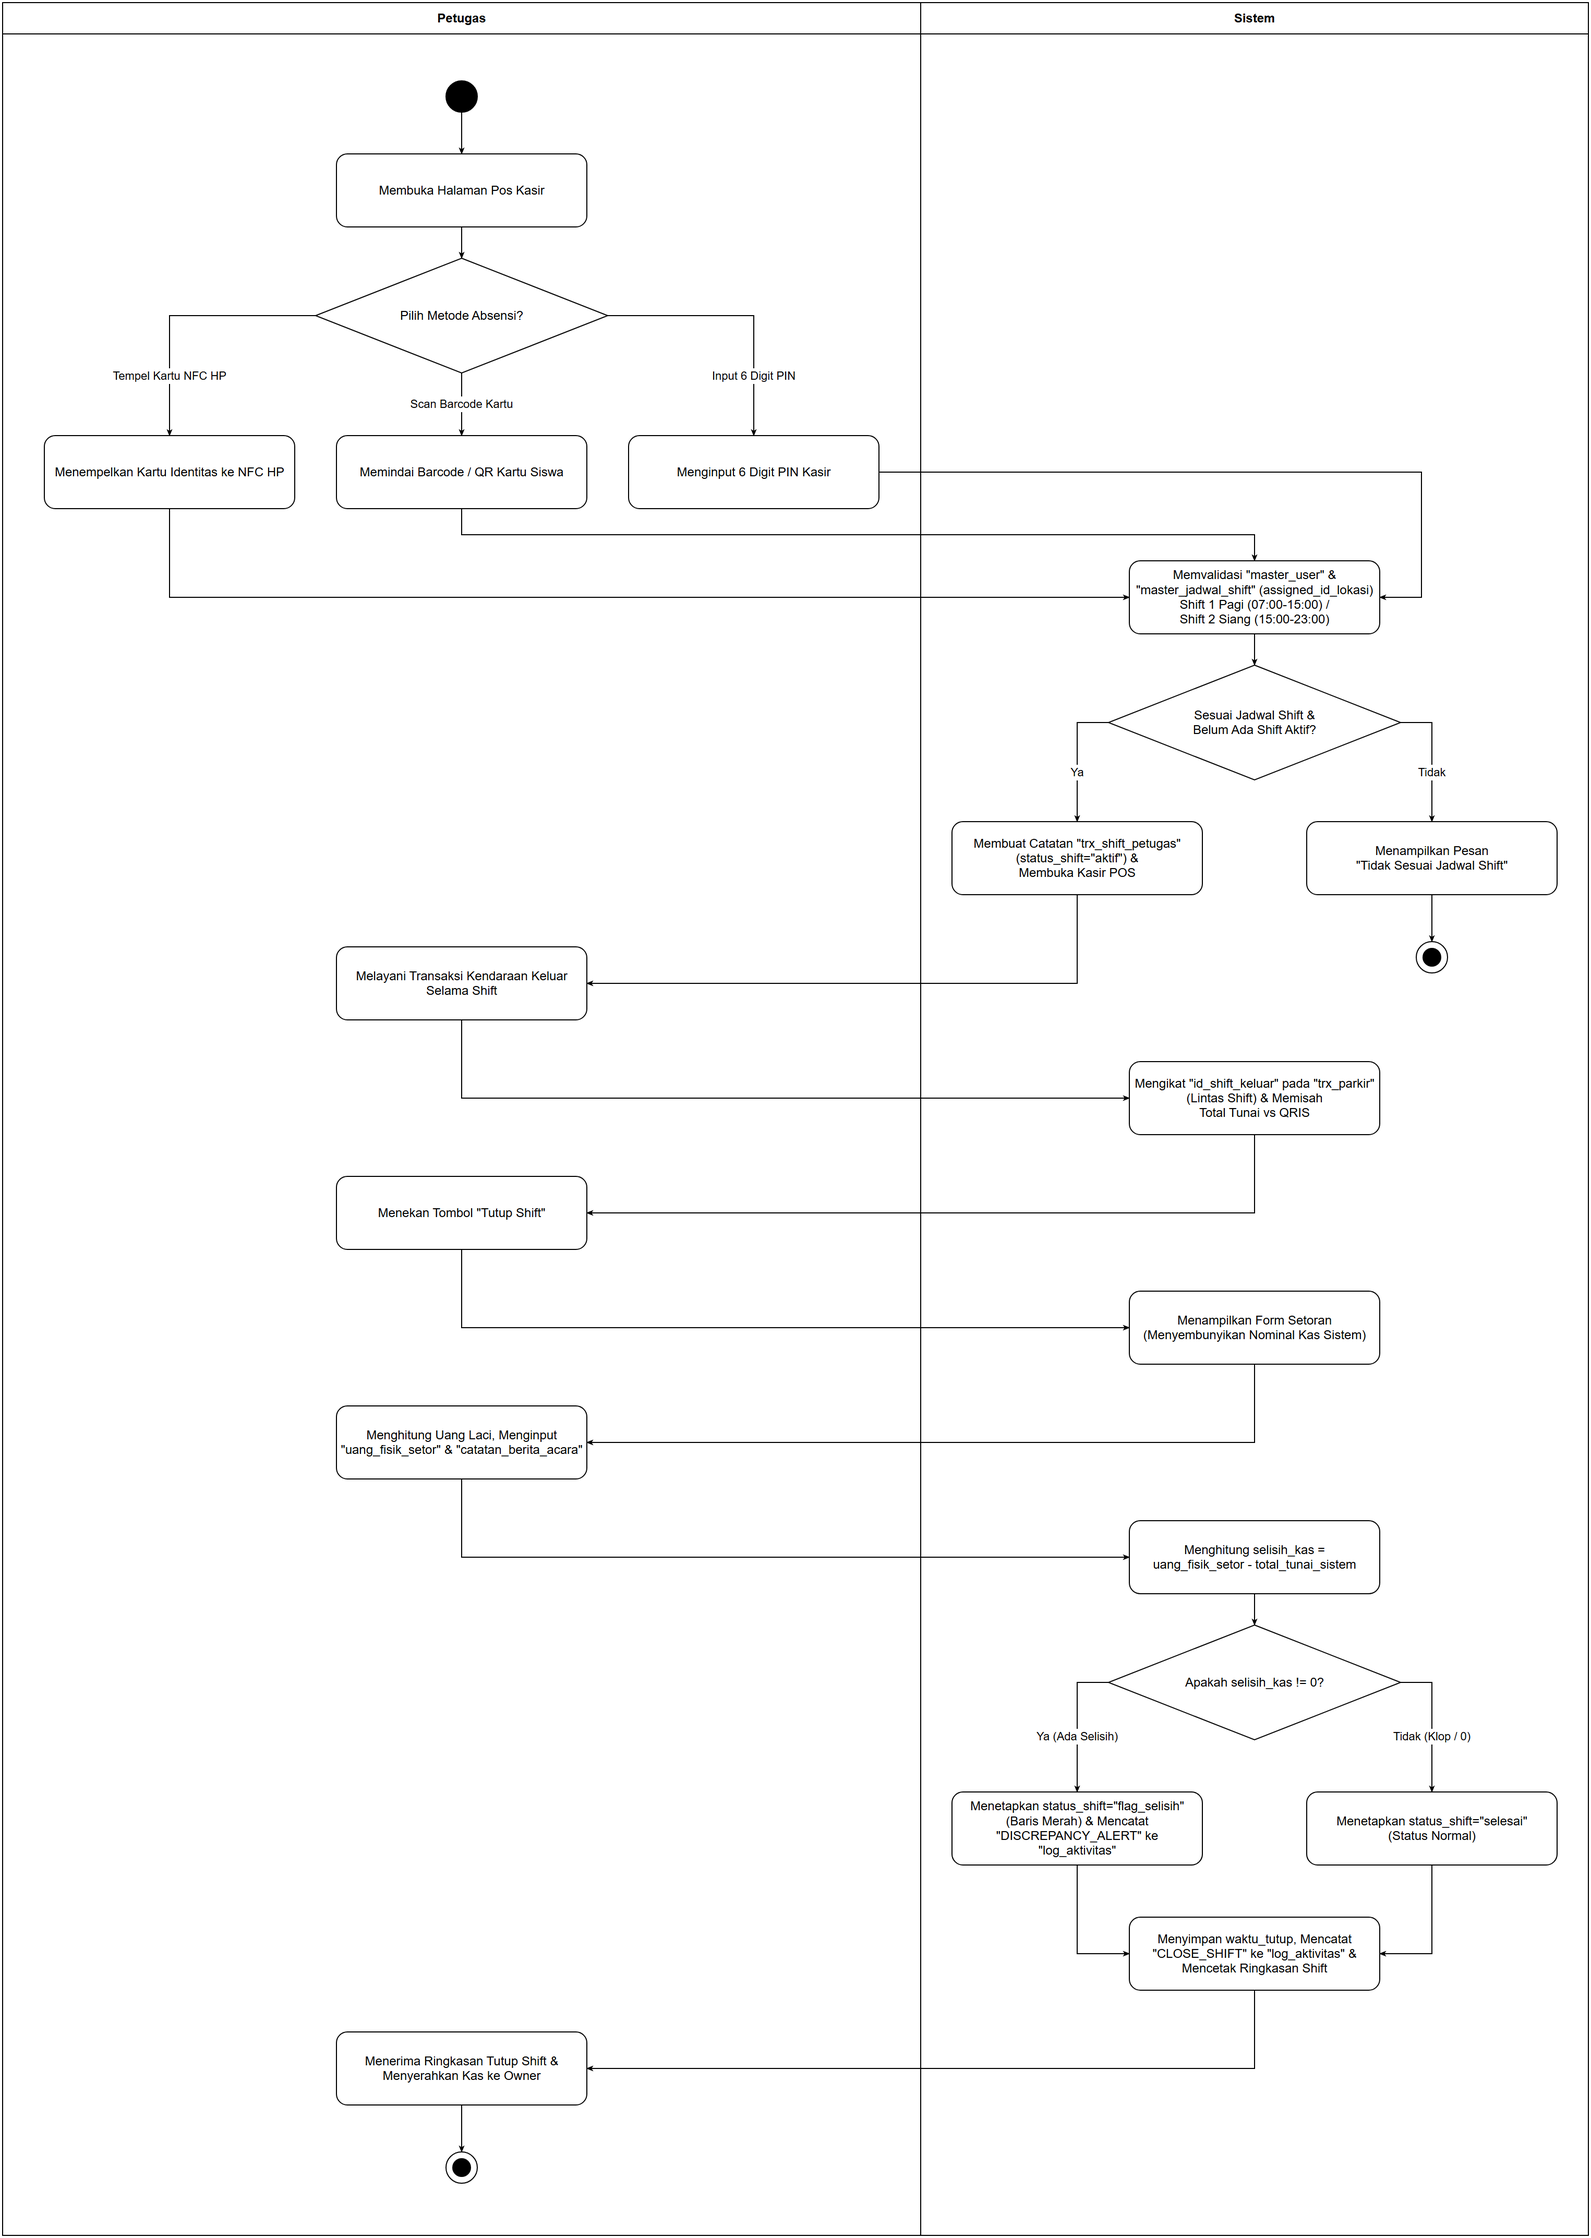
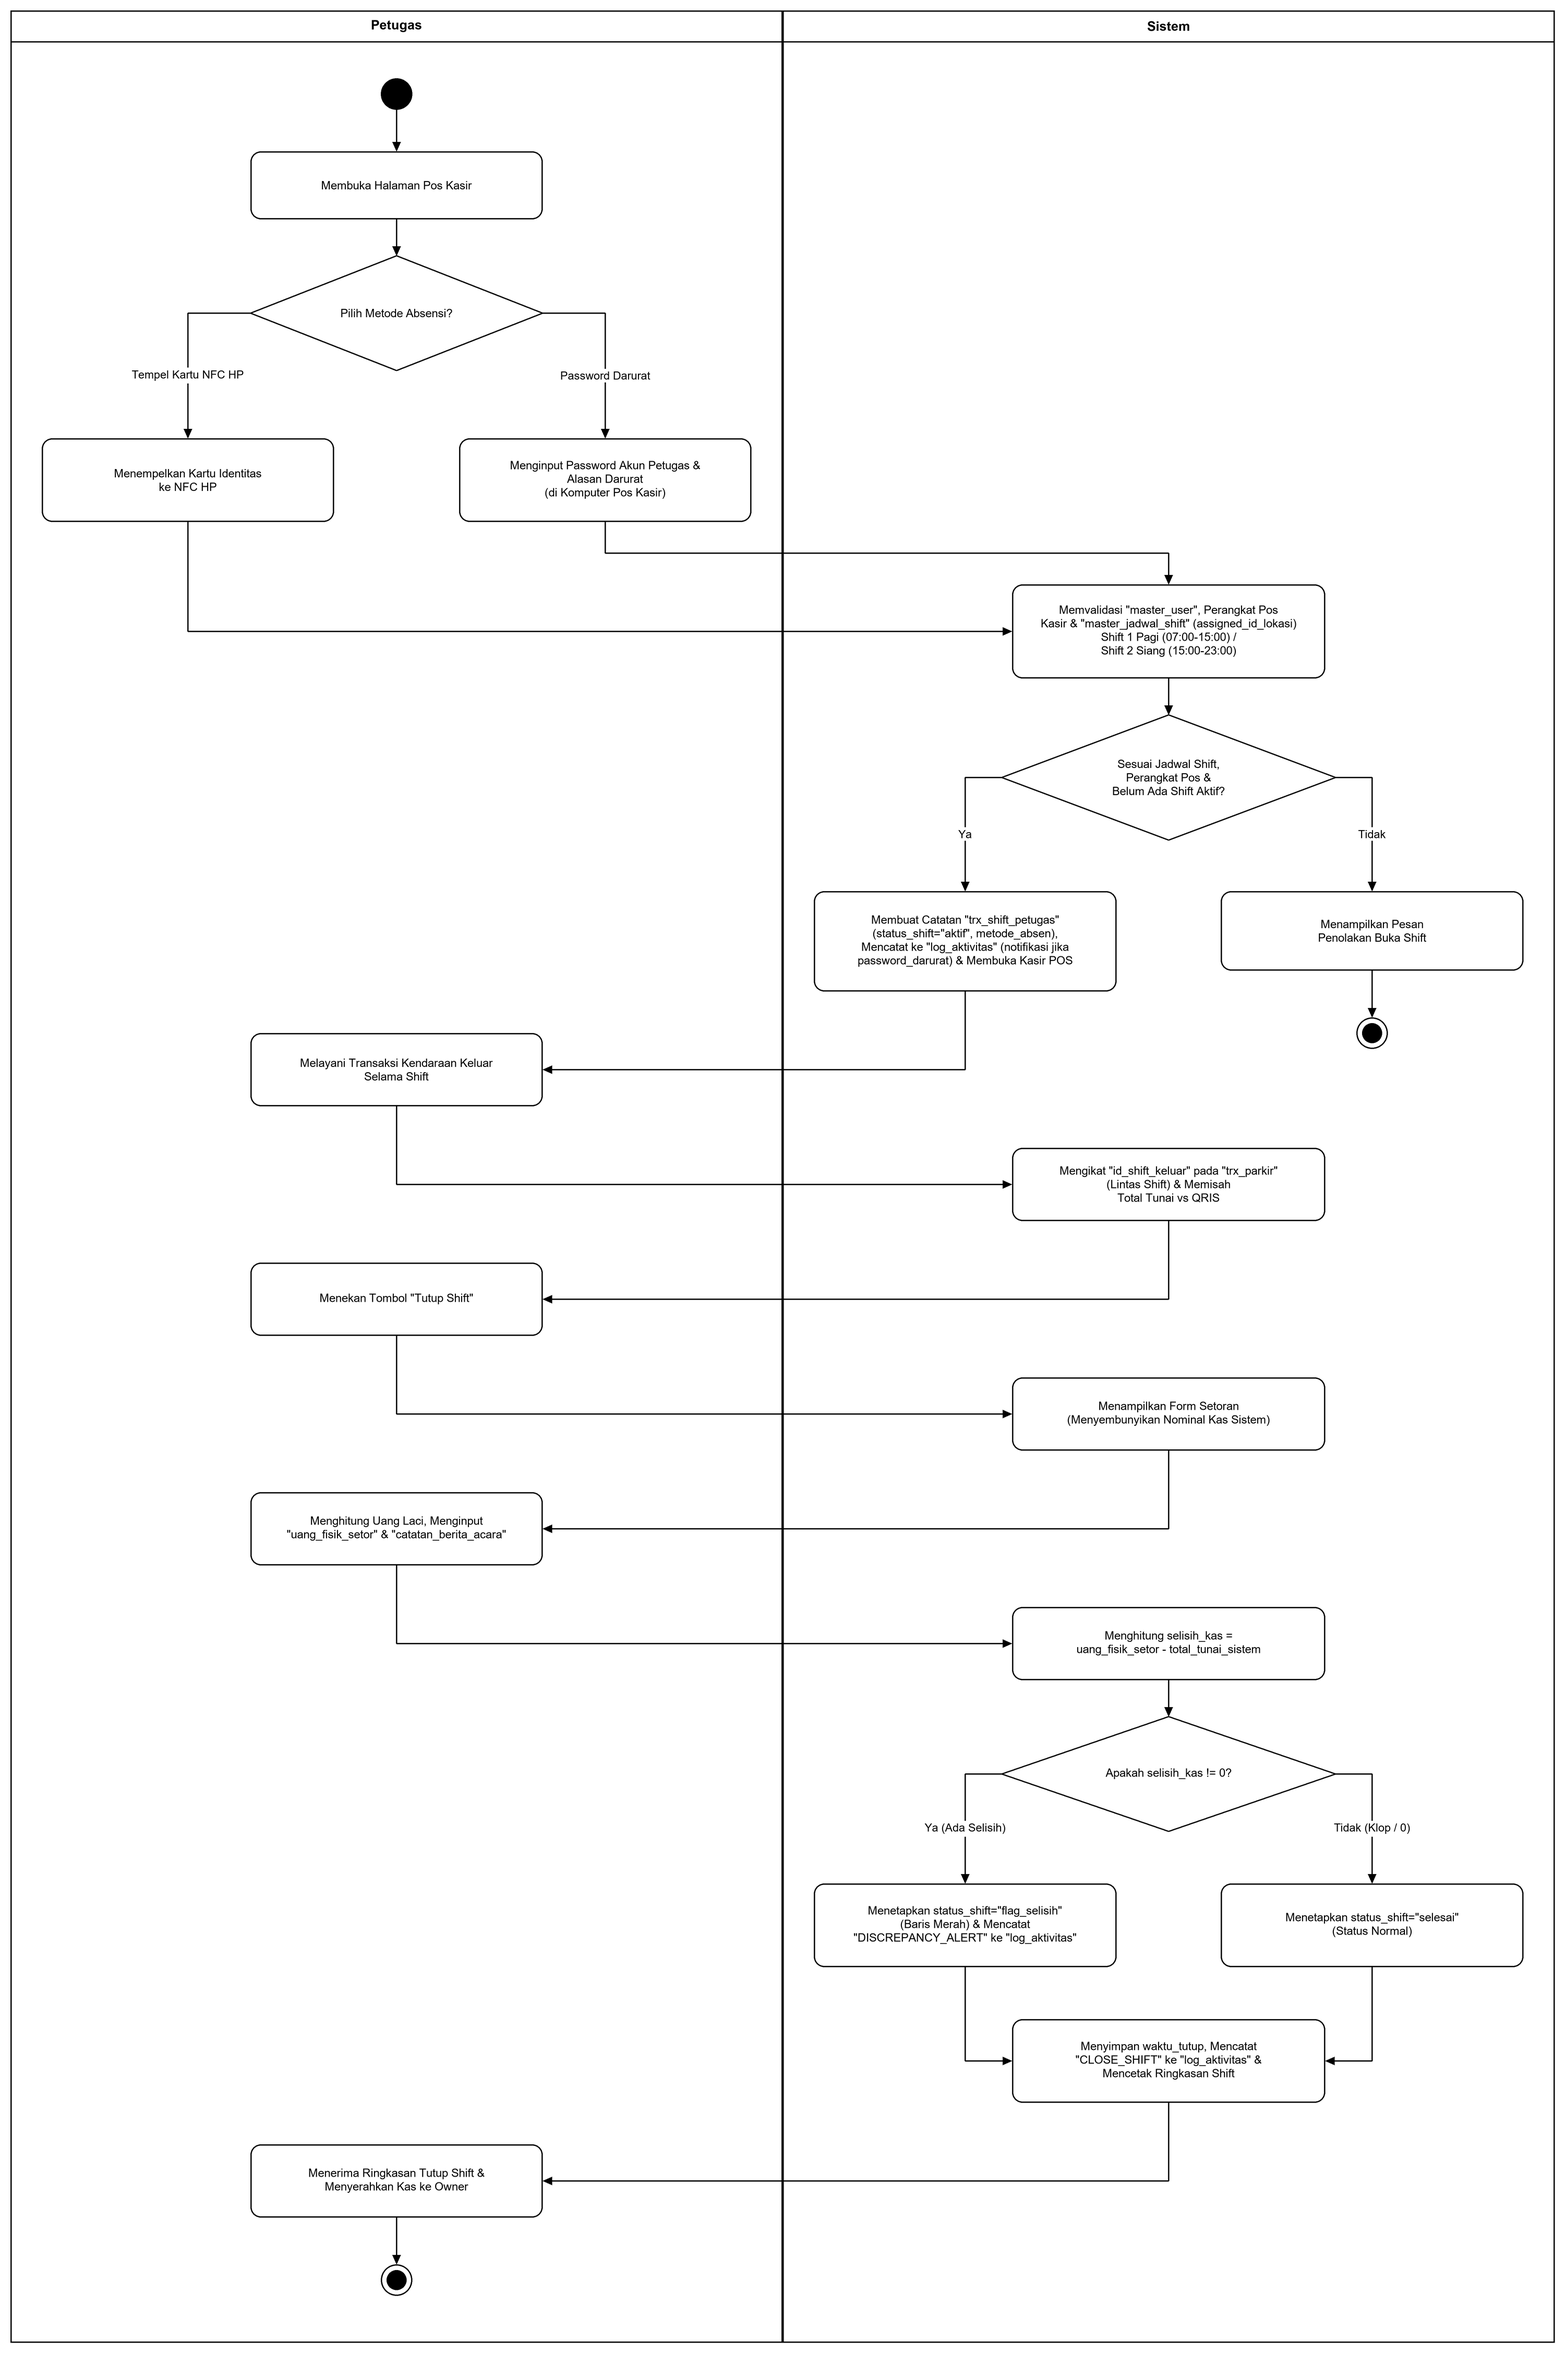
revisi activity buka tutup shift kasir opsi b hapus barcode pin

diff --git a/docs/PROGRESS.md b/docs/PROGRESS.md
@@ -29,8 +29,8 @@ Dokumen ini memantau status pengerjaan setiap butir revisi hasil sidang Quality 
 
 | No | Nama Diagram | Status PNG | Status .drawio | Status ACC Pengguna | Keterangan |
 | :---: | :--- | :---: | :---: | :---: | :--- |
-| **1** | `Diagram ParkSpot UKK-DFD LEVEL 0 (Revisi)` | 🟢 Selesai | 🟢 Selesai | 🟡 **Menunggu Review/ACC Ulang** | 5 entitas persis asli, Opsi B NFC/Password Darurat, ekspor PDF/Excel, Auditor v2 PASS |
-| **2** | `Diagram ParkSpot UKK-Activity Buka & Tutup Shift Kasir` | 🟡 Revisi Opsi B | 🟡 Revisi Opsi B | 🔴 Antre Revisi | Hapus cabang Barcode & PIN $\rightarrow$ 2 cabang NFC & Password Darurat (Opsi B) |
+| **1** | `Diagram ParkSpot UKK-DFD LEVEL 0 (Revisi)` | 🟢 Selesai | 🟢 Selesai | 🟢 Di-ACC | 5 entitas persis asli, Opsi B NFC/Password Darurat, ekspor PDF/Excel, Auditor v2 PASS |
+| **2** | `Diagram ParkSpot UKK-Activity Buka & Tutup Shift Kasir` | 🟢 Selesai | 🟢 Selesai | 🟡 **Menunggu Review/ACC** | 2 cabang Opsi B (NFC HP & Password Darurat), hapus Barcode & PIN, Auditor v2 PASS |
 | **3** | `Diagram ParkSpot UKK-Sequence Buka & Tutup Shift Kasir` | 🟡 Revisi Opsi B | 🟡 Revisi Opsi B | 🔴 Antre Revisi | Hapus Barcode & PIN $\rightarrow$ NFC & Password Darurat (Opsi B) |
 | **4** | `Diagram ParkSpot UKK-Activity CRUD Area & Slot (Revisi)` | 🟢 Selesai | 🟢 Selesai | 🟢 Di-ACC | Struktur 3 cabang `Pilih Aksi?` persis milik pengguna, XML bersih & sinkron |
 | **5** | `Diagram ParkSpot UKK-Sequence CRUD Area & Slot (Revisi)` | 🟢 Selesai | 🟢 Selesai | 🟡 **Menunggu Review/ACC** | 4 lifeline, validasi maks 12 slot/zona (alt), XML bersih & sinkron |
